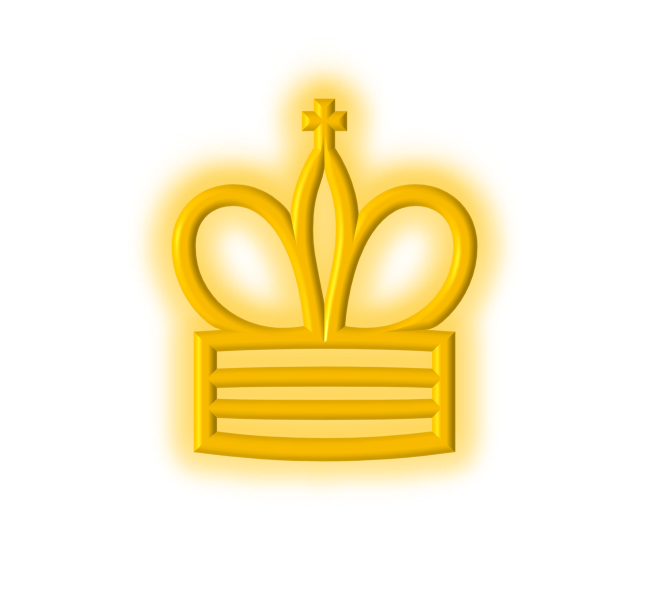
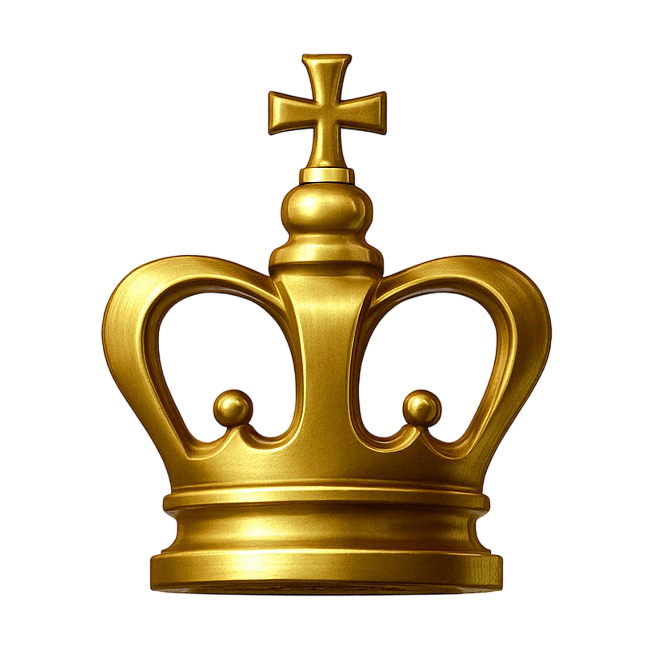
Revamp
New and improved!

diff --git a/index.html b/index.html
@@ -29,8 +29,8 @@
     <div id="viewport" class="l-viewport">
       <div class="l-wrapper">
         <header class="header">
-          <a class="header--logo" href="#0">
-            <p><span>&#9818;</span>: victor-m-&#60;/&#62;</p>
+          <a class="header--logo home" href="#0">
+            <p><span>&#9818;</span>: VictorM</p>
           </a>
           <div class="header--nav-toggle">
             <span></span>
@@ -49,7 +49,7 @@
           <li class="l-section section section--is-active">
             <div class="intro">
               <div class="intro--banner">
-                <h1>Banele<br>Victor<br>Mayisela</h1>
+                <h1>Web <br> App<br>Developer</h1>
                 <button class="cta">Freelance Developer
                   <svg version="1.1" id="Layer_1" xmlns="http://www.w3.org/2000/svg" xmlns:xlink="http://www.w3.org/1999/xlink" x="0px" y="0px" viewBox="0 0 150 118" style="enable-background:new 0 0 150 118;" xml:space="preserve">
                   <g transform="translate(0.000000,118.000000) scale(0.100000,-0.100000)">
@@ -58,7 +58,7 @@
                   </svg>
                   <span class="btn-background"></span>
                 </button>
-                <img src="assets/img/icon_resized.png" alt="Welcome">
+                <img src="assets/img/logo.png" alt="Welcome">
               </div>
               <div class="intro--options">
                 <a href="#0">
@@ -70,7 +70,7 @@
                   <p>Building tailor made, and purpose drivern Mobile Applications.</p>
                 </a>
                 <a href="#0">
-                  <h3>Systems Software &amp; Analysis</h3>
+                  <h3>Systems Software Analysis</h3>
                   <p>Research and study legacy systems to maintain and improve.</p>
                 </a>
               </div>
@@ -96,6 +96,15 @@
                         <img src="assets/img/work-2.png" alt="Metiew and Smith">
                       </div>
                       <p class="slider--item-title">GitHub</p>
+                      <p class="slider--item-description">Test site image.</p>
+                    </a>
+                  </li>
+                  <li class="slider--item slider--item-right">
+                    <a href="#0">
+                      <div class="slider--item-image">
+                        <img src="assets/img/work-3.png" alt="Alex Nowak">
+                      </div>
+                      <p class="slider--item-title">The-Image-Editor</p>
                       <p class="slider--item-description">Test site image.</p>
                     </a>
                   </li>
@@ -170,16 +179,16 @@
               <div class="contact--lockup">
                 <div class="modal">
                   <div class="modal--information">
-                    <p>E1050 Goba Mayflower <br> Mpuluzi, Mbombela <br> South Africa</p>
-                    <a href="mailto:ouremail@gmail.com">banelevictorm@gmail.com</a>
-                    <a href="tel:+148126287560">+27 63 386 9335</a>
+                    <p>Stand 6771 Block 5 Moloto <br> Kwa-Mhlanga, Mpumalanga <br> South Africa</p>
+                    <a href="mailto:banelevictorm@gmail.com">banelevictorm@gmail.com</a>
+                    <a href="tel:+27710108876">+27 71 010 8876</a>
                   </div>
                   <ul class="modal--options">
-                    <li><a href="#0"> Facebook <i class="fab fa-2x fa-facebook-square"></i> </a></li>
-                    <li><a href="#0"> Twitter <i class="fab fa-2x fa-twitter-square"></i> </a></li>
-                    <li><a href="#0"> Instagram <i class="fab fa-2x fa-instagram-square"></i> </a></li>
-                    <li><a href="#0"> LinkedIn <i class="fab fa-2x fa-linkedin"></i> </a></li>
-                    <li><a href="mailto:banelevictro@gmail.com"> 
+                    <li><a href="https://web.facebook.com/mayiselabanele/?_rdc=1&_rdr#" target="_blank" rel="noopener noreferrer"> Facebook <i class="fab fa-2x fa-facebook-square"></i> </a></li>
+                    <li><a href="https://github.com/victor-m-code" target="_blank" rel="noopener noreferrer"> GitHub <i class="fab fa-2x fa-github-square"></i> </a></li>
+                    <li><a href="https://www.instagram.com/mayiselabanele/" target="_blank" rel="noopener noreferrer"> Instagram <i class="fab fa-2x fa-instagram-square"></i> </a></li>
+                    <li><a href="https://za.linkedin.com/in/banele-victor-mayisela-523a1257" target="_blank" rel="noopener noreferrer"> LinkedIn <i class="fab fa-2x fa-linkedin"></i> </a></li>
+                    <li><a href="mailto:banelevictro@gmail.com" target="_blank" rel="noopener noreferrer"> 
                       Email <i class="fa fa-2x fa-envelope"></i> 
                     </a></li>
                   </ul>
@@ -189,7 +198,7 @@
           </li>
           <li class="l-section section">
             <div class="hire">
-              <h2>You want us to do</h2>
+              <h2>Select desired services</h2>
               <!-- checkout formspree.io for easy form setup -->
               <form class="work-request">
                 <div class="work-request--options">
@@ -281,7 +290,7 @@
     <li>Works</li>
     <li>About</li>
     <li>Contact</li>
-    <li>Hire us</li>
+    <li>Hire Me</li>
   </ul>
 </div>
 

diff --git a/assets/css/main.css b/assets/css/main.css
@@ -226,6 +226,11 @@ body {
     -webkit-tap-highlight-color: white498;
 }
 body {
+    background: fixed;
+    background-position: center;
+    background-size: cover;
+    background-repeat: no-repeat;
+    background-image: url(/assets/img/main-bg.jpg);
     background-color: #0c0c0c;
     font-size: 14px;
     line-height: 1.6;
@@ -432,7 +437,7 @@ body {
     -ms-flex-align: center;
     align-items: center;
     text-decoration: none;
-    color: gold;
+    color: darkgoldenrod;
 }
 .header--logo p {
     margin: 0 0 0 10px;
@@ -468,7 +473,7 @@ body {
     position: relative;
     width: 16px;
     height: 2px;
-    background-color: gold;
+    background-color: darkgoldenrod;
 }
 .header--nav-toggle::before {
     bottom: 5px;
@@ -639,6 +644,7 @@ body {
     background-color: gold;
 }
 .intro--banner h1 {
+    color: darkgoldenrod;
     position: relative;
     font-size: 68px;
     font-weight: 900;
@@ -710,7 +716,7 @@ body {
 }
 .intro--options p {
     margin-bottom: 0;
-    letter-spacing: .1rem;
+    letter-spacing: 0.1rem;
 }
 @media (max-width: 900px) {
     .intro--banner {
@@ -760,7 +766,7 @@ body {
     }
     .intro--banner img {
         bottom: 100px;
-        width: 120px;
+        width: 150px;
     }
 }
 @media (max-width: 600px) and (max-height: 750px) {
@@ -825,10 +831,10 @@ body {
 .work--lockup .slider--item {
     position: absolute;
     display: none;
-    letter-spacing: .1rem;
+    letter-spacing: 0.1rem;
     text-align: center;
-    box-shadow: 0 0 .5rem gold;
-    padding: .8rem 0;
+    box-shadow: 0 0 0.5rem gold;
+    padding: 0.8rem 0;
 }
 .work--lockup .slider--item a {
     text-decoration: none;
@@ -840,7 +846,7 @@ body {
     font-size: 12px;
     font-weight: 900;
     background-color: goldenrod;
-    box-shadow: 0 0 .2rem gold;
+    box-shadow: 0 0 0.2rem gold;
 }
 .work--lockup .slider--item-description {
     display: none;
@@ -1007,7 +1013,7 @@ body {
     transform: rotate(45deg);
     width: 10px;
     height: 10px;
-    background-color: gold;
+    background-color: darkgoldenrod;
 }
 .about--banner h2 {
     position: relative;
@@ -1118,13 +1124,13 @@ body {
 }
 .about--options p {
     text-align: center;
-    font-size: .6rem;
+    font-size: 0.6rem;
     line-height: normal;
     position: absolute;
     width: 100%;
     left: -2px;
     bottom: -.6rem;
-    padding: .1rem;
+    padding: 0.1rem;
     color: black;
     background-color: rgba(255, 217, 0, 0.8);
 }
@@ -1193,7 +1199,7 @@ body {
         grid-template-columns: 1fr 1fr;
         gap: 2rem;
     }
-    .about--options a{
+    .about--options a {
         width: 170px;
         height: 85px;
     }
@@ -1268,20 +1274,20 @@ body {
     margin: 0 auto 25px;
 }
 .contact--lockup .modal--options li:nth-child(1) {
-    box-shadow: 0 0 .3rem gold;
+    box-shadow: 0 0 0.3rem gold;
 }
 .contact--lockup .modal--options li:nth-child(2) {
-    box-shadow: 0 0 .3rem gold;
+    box-shadow: 0 0 0.3rem gold;
 }
 .contact--lockup .modal--options li:nth-child(3) {
-    box-shadow: 0 0 .3rem gold;
+    box-shadow: 0 0 0.3rem gold;
 }
 .contact--lockup .modal--options li:nth-child(4) {
-    box-shadow: 0 0 .3rem gold;
+    box-shadow: 0 0 0.3rem gold;
 }
 .contact--lockup .modal--options li:nth-child(5) {
     margin-bottom: 0;
-    box-shadow: 0 0 .3rem gold;
+    box-shadow: 0 0 0.3rem gold;
 }
 .contact--lockup .modal--options a {
     display: block;
@@ -1296,7 +1302,7 @@ body {
 .contact--lockup .modal--options a:hover {
     color: black;
     background-color: gold;
-    box-shadow: 0 0 .6rem gold;
+    box-shadow: 0 0 0.6rem gold;
 }
 .hire {
     position: relative;
@@ -1352,7 +1358,7 @@ body {
     font-size: 16px;
     font-weight: 700;
     text-transform: uppercase;
-    background-color: gold;
+    background-color: darkgoldenrod;
     border: none;
     border-radius: 0;
 }
@@ -1425,8 +1431,8 @@ body {
     display: none;
 }
 .work-request--options input[type="checkbox"]:checked+label {
-    background-color: gold;
-    border-color: gold;
+    background-color: goldenrod;
+    border-color: darkgoldenrod;
 }
 .work-request--options input[type="checkbox"]:checked+label svg {
     width: 15px;
